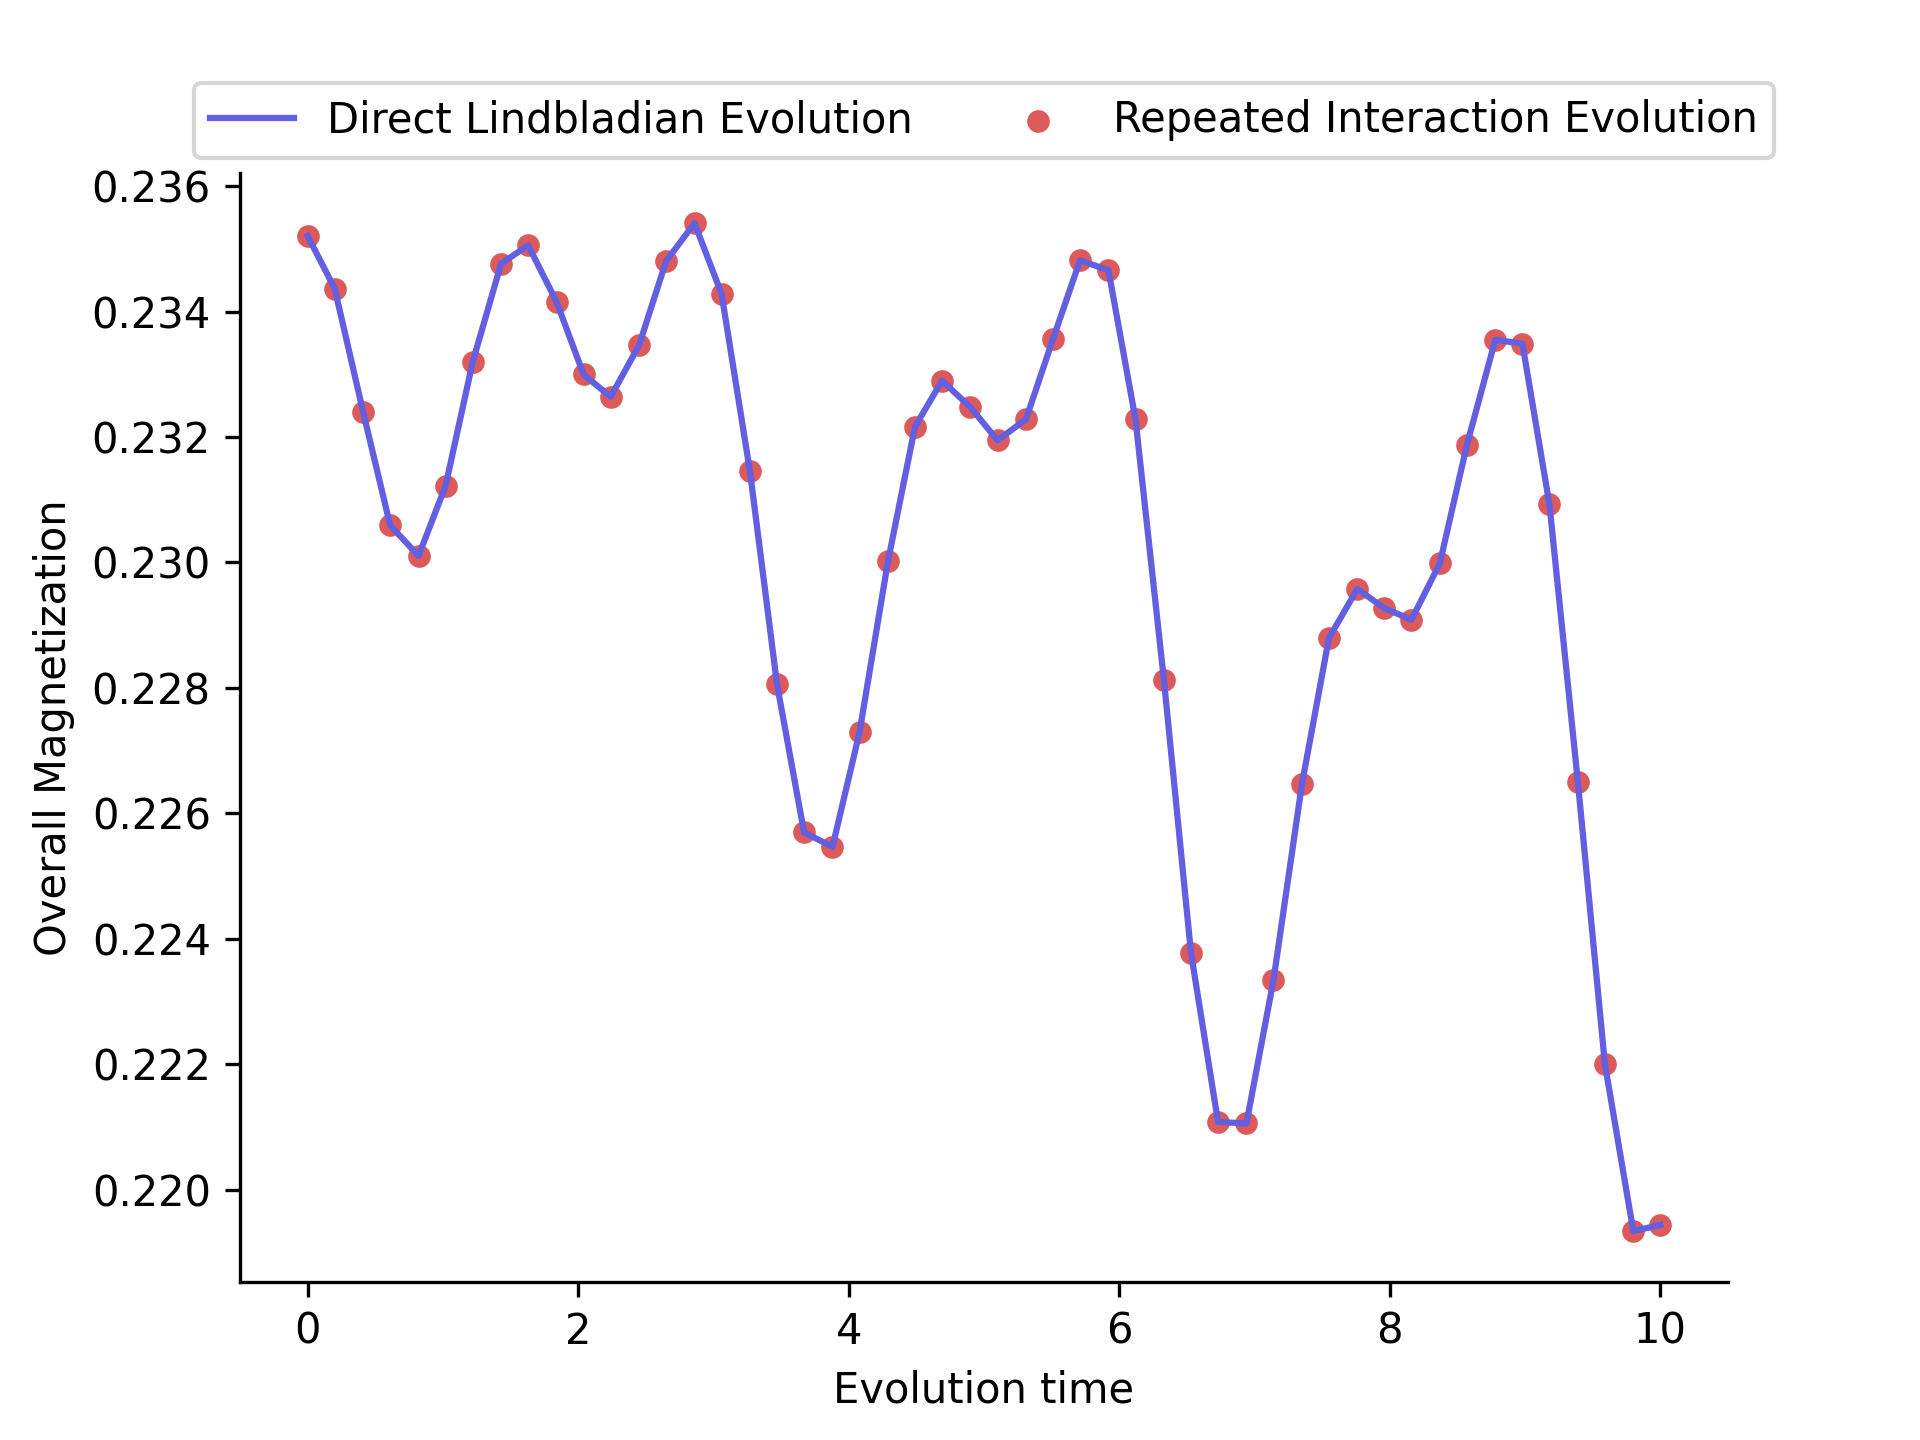
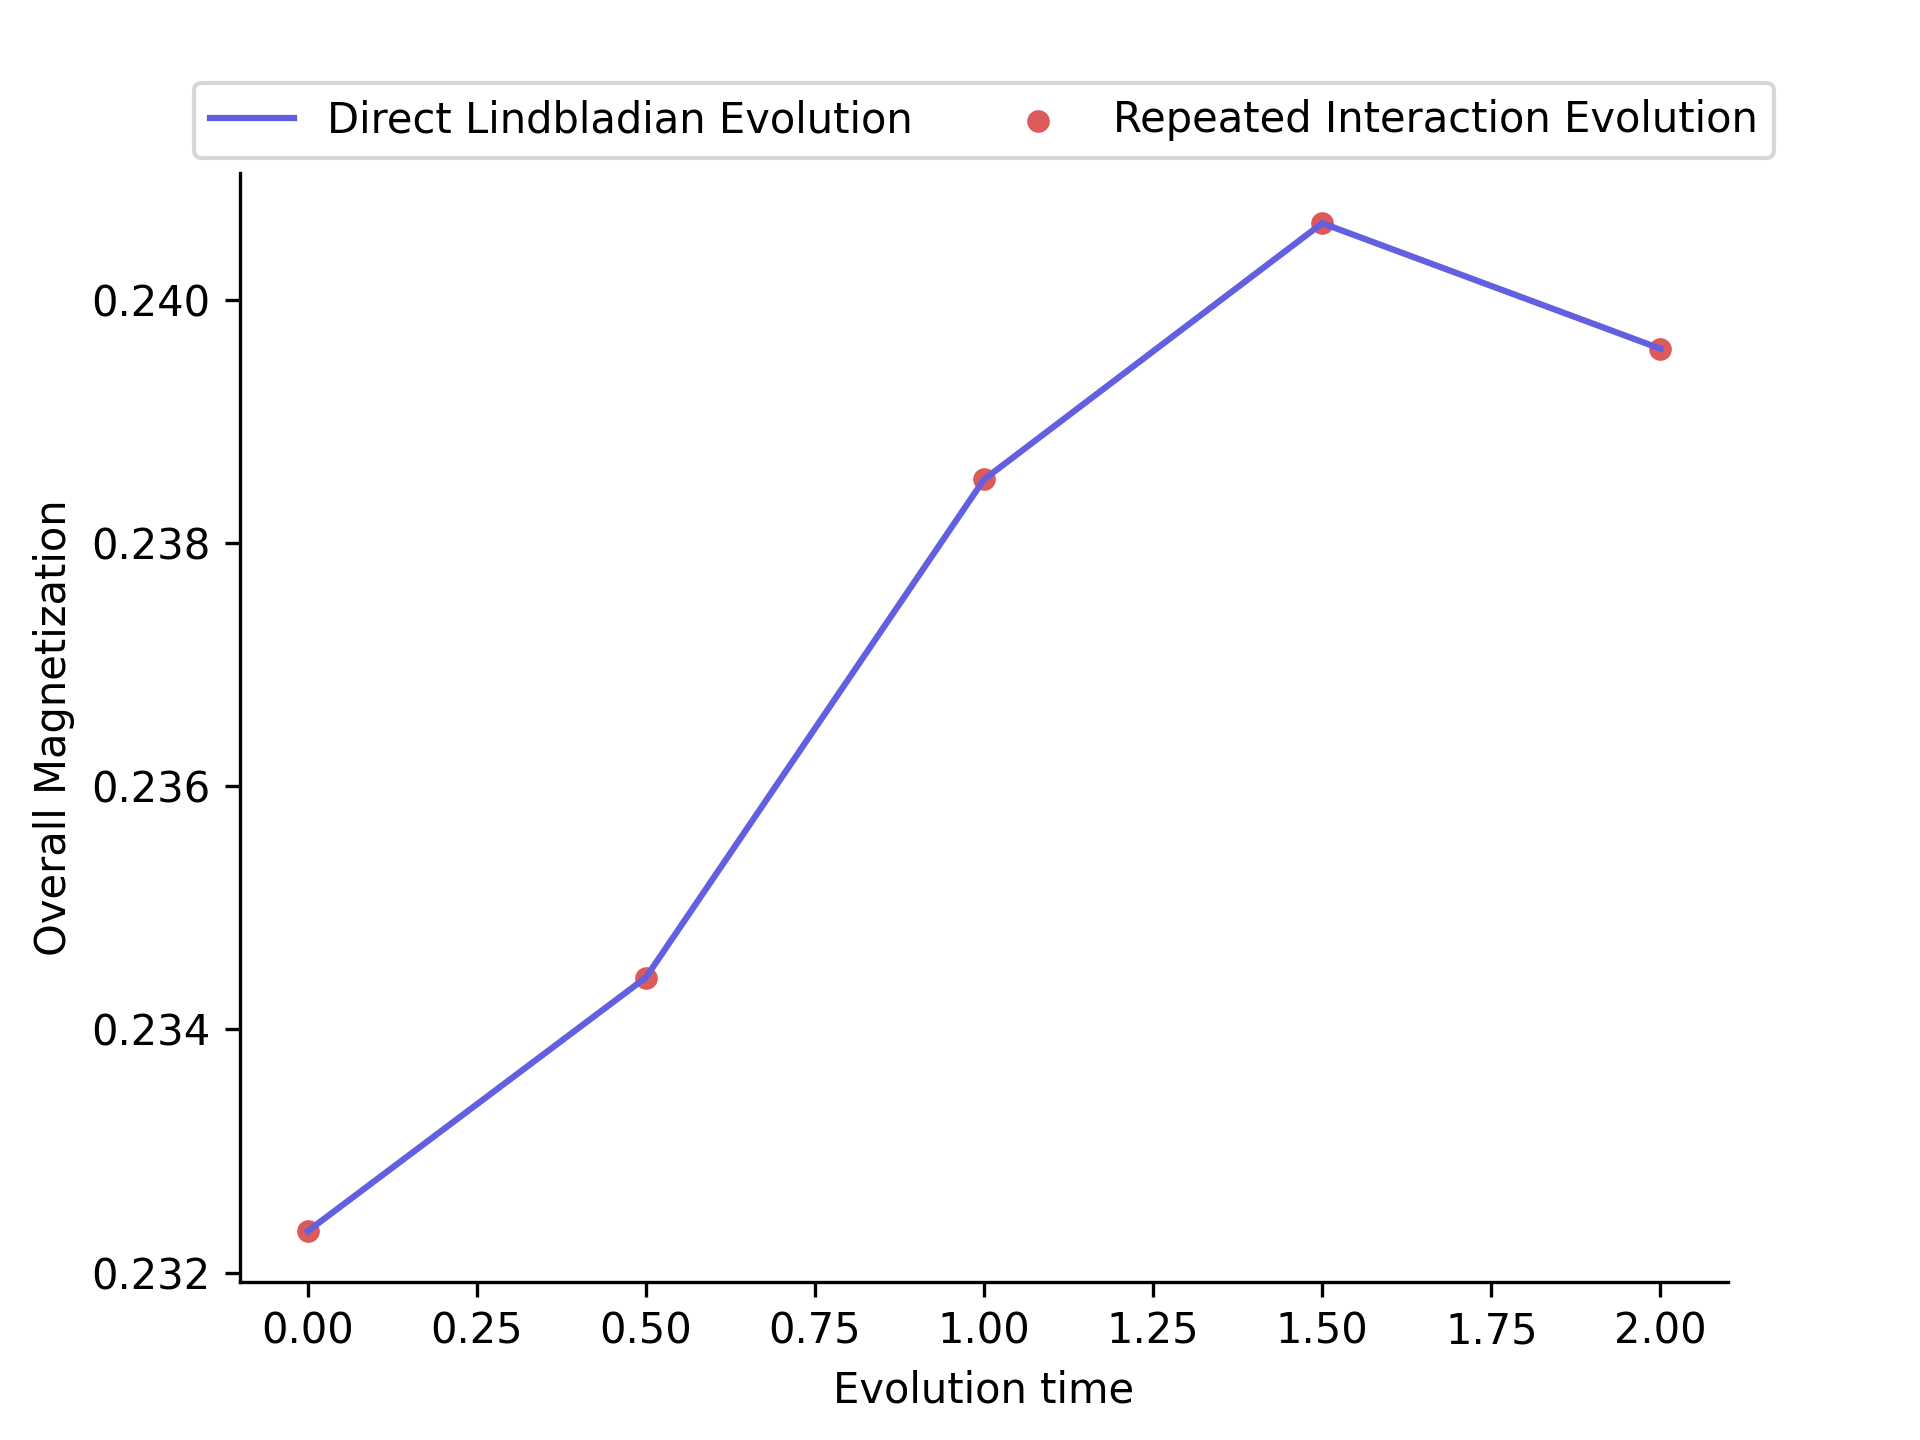
five qubit simple

diff --git a/ising/lindbladian/simulation/multi_cm_damping.py b/ising/lindbladian/simulation/multi_cm_damping.py
@@ -20,11 +20,11 @@ SIGMA_MINUS = np.array([[0, 1], [0, 0]])
 SIGMA_PLUS = np.array([[0, 0], [1, 0]])
 
 
-QUBIT_COUNT = 4
+QUBIT_COUNT = 5
 GAMMAS = [0, 0.1, 0.4, 0.7, 0.9]
 GAMMA = 0
-TIME_RANGE = (0, 10)
-TIME_COUNT = 50
+TIME_RANGE = (0, 5)
+TIME_COUNT = 10
 EPS = 0.1
 
 H_VAL = -0.1
@@ -190,7 +190,7 @@ def ham_evo(rho_sys, rho_env, ham_sys, gamma, time, neu=1000):
         eig_val, eig_vec = np.linalg.eig(ham)
         eig_vec_inv = np.linalg.inv(eig_vec)
         hams.append((eig_vec, eig_val, eig_vec_inv))
-    print("Kraus operator calculation complete")
+    print("Ham operator calculation complete")
 
     us, u_dags = [], []
     for eig_vec, eig_val, eig_vec_inv in hams:

diff --git a/ising/lindbladian/plot/plot_multi_cm_damping.py b/ising/lindbladian/plot/plot_multi_cm_damping.py
@@ -7,7 +7,7 @@ from matplotlib import pyplot as plt
 
 COLORS = ["#DC5B5A", "#625FE1", "#94E574", "#2A2A2A", "#D575EF"]
 
-QUBIT_COUNT = 4
+QUBIT_COUNT = 5
 
 def _round(mat):
     return np.round(mat, decimals=2)
